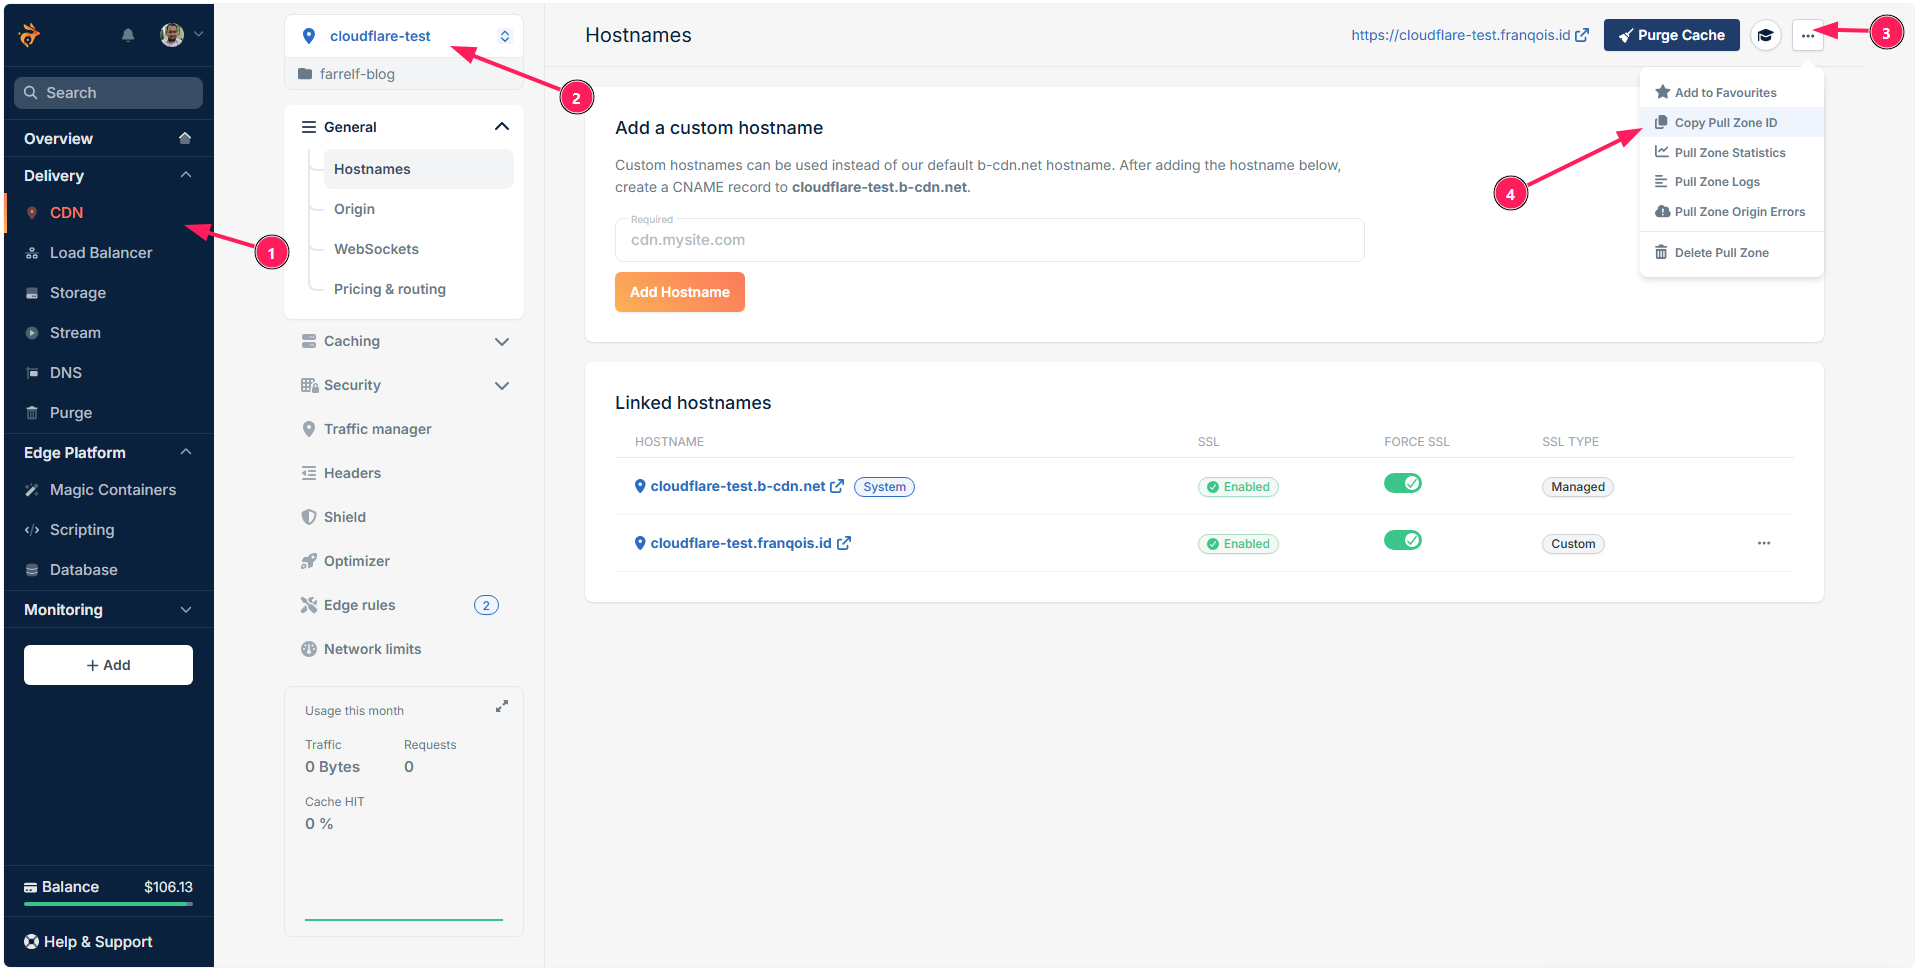
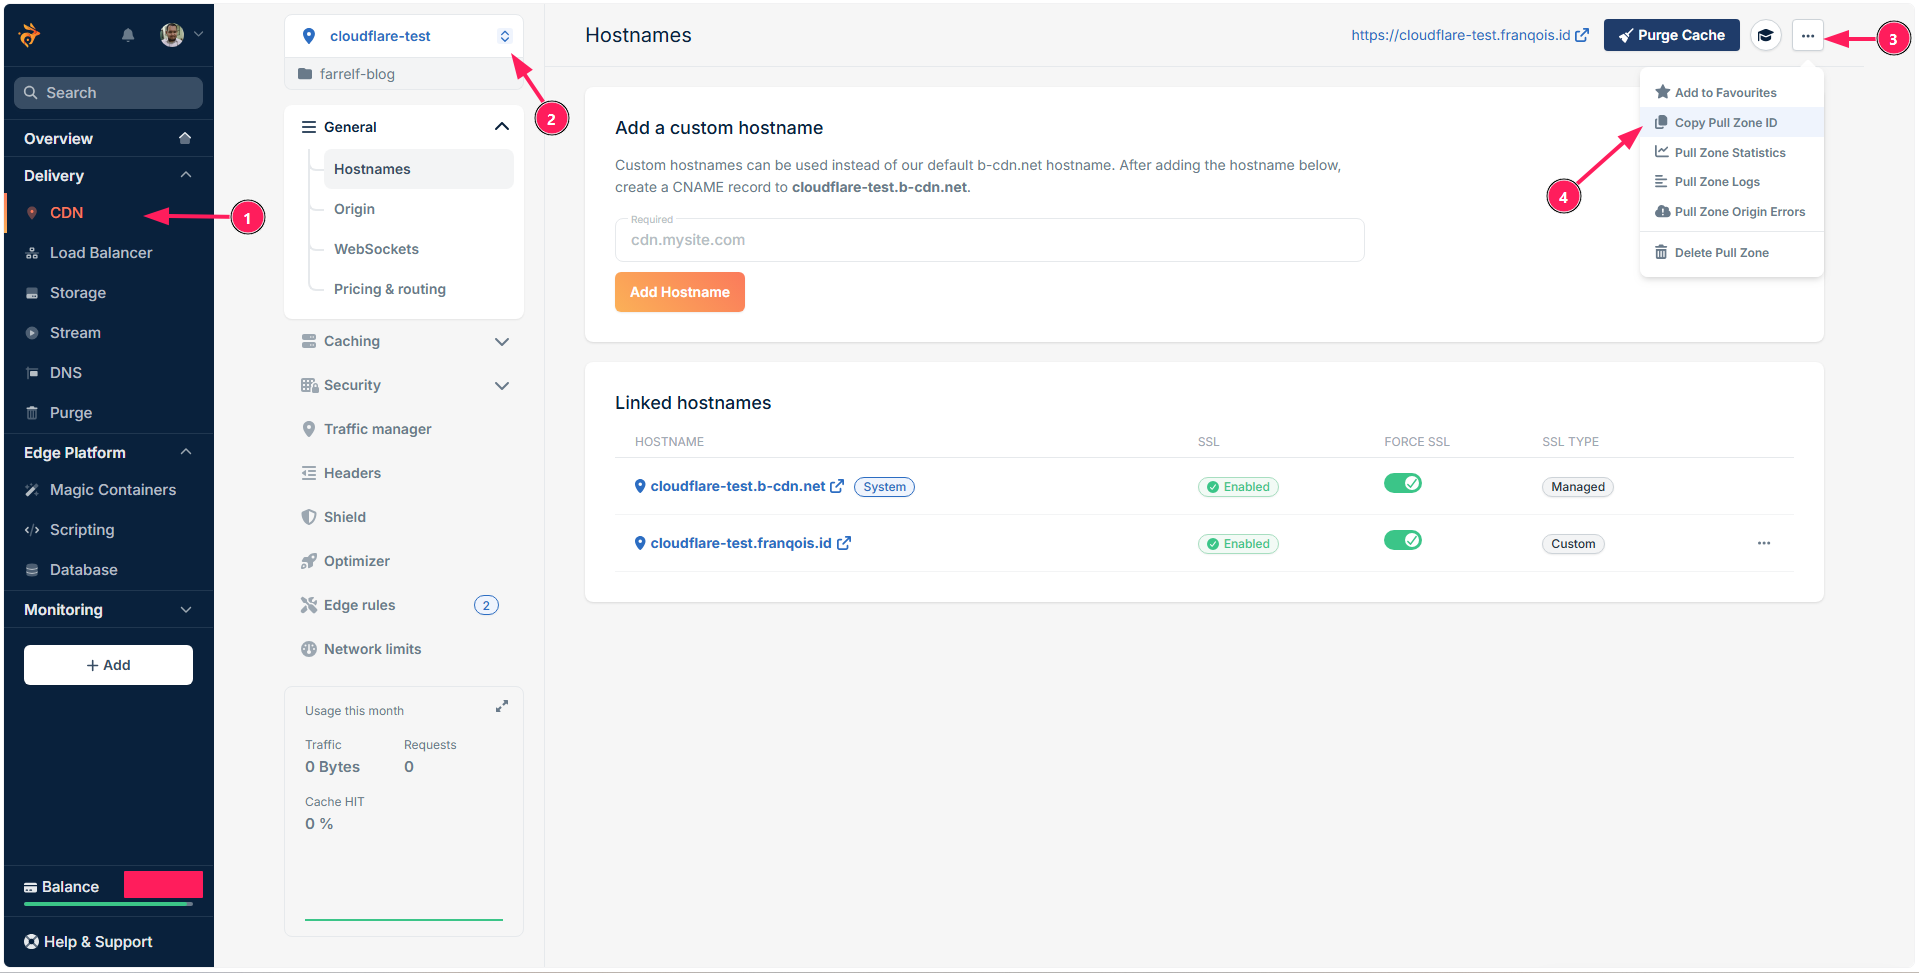
docs(article): relocate the credential tip and refresh the Bunny screenshot

diff --git a/content/post/2021/08/26-cara-memasang-zerossl-dan-renew-otomatis-di-netlify-bunnycdn/index.md b/content/post/2021/08/26-cara-memasang-zerossl-dan-renew-otomatis-di-netlify-bunnycdn/index.md
@@ -451,8 +451,6 @@ Kalau belum, silakan dibuat terlebih dahulu, caranya sebagai berikut:
 
 ### Verifikasi DNS di acme.sh {#verifikasi-dns-di-acmesh}
 
-Untuk ketiga penyedia DNS di bawah ini, saya sarankan agar Anda memasukkan kredensialnya langsung di dalam Terminal-nya (atau _Shell_) yang sedang Anda gunakan.
-
 Agar sertifikat TLS dapat diterbitkan melalui protokol ACME, maka pengguna diperlukan melakukan verifikasi untuk menyelesaikan tantangan. Salah satunya adalah dengan verifikasi DNS.
 
 Verifikasi DNS merupakan sebuah metode yang menggunakan catatan DNS (_DNS Record_) pada domain pengguna untuk memverifikasi bukti kepemilikan domain sebelum sertifikat diterbitkan atau diperbarui.
@@ -506,6 +504,8 @@ set -x CF_Token "API_TOKEN_KAMU_DI_SINI"
 set -x CF_Account_ID "ACCOUNT_ID_KAMU_DI_SINI"
 set -x CF_Zone_ID "ZONE_ID_KAMU_DI_SINI"
 ```
+
+Saya sarankan agar Anda memasukkan kredensialnya langsung di dalam Terminal-nya (atau _Shell_) yang sedang Anda gunakan.
 
 Udah itu aja, jika Anda menggunakan Cloudflare dan sudah memasukkan kredensial di atas, Anda hanya perlu langsung melanjutkan ke [langkah berikutnya](#menerbitkan-sertifikat-ssl) saja untuk mempelajari penerbitan sertifikat.
 
